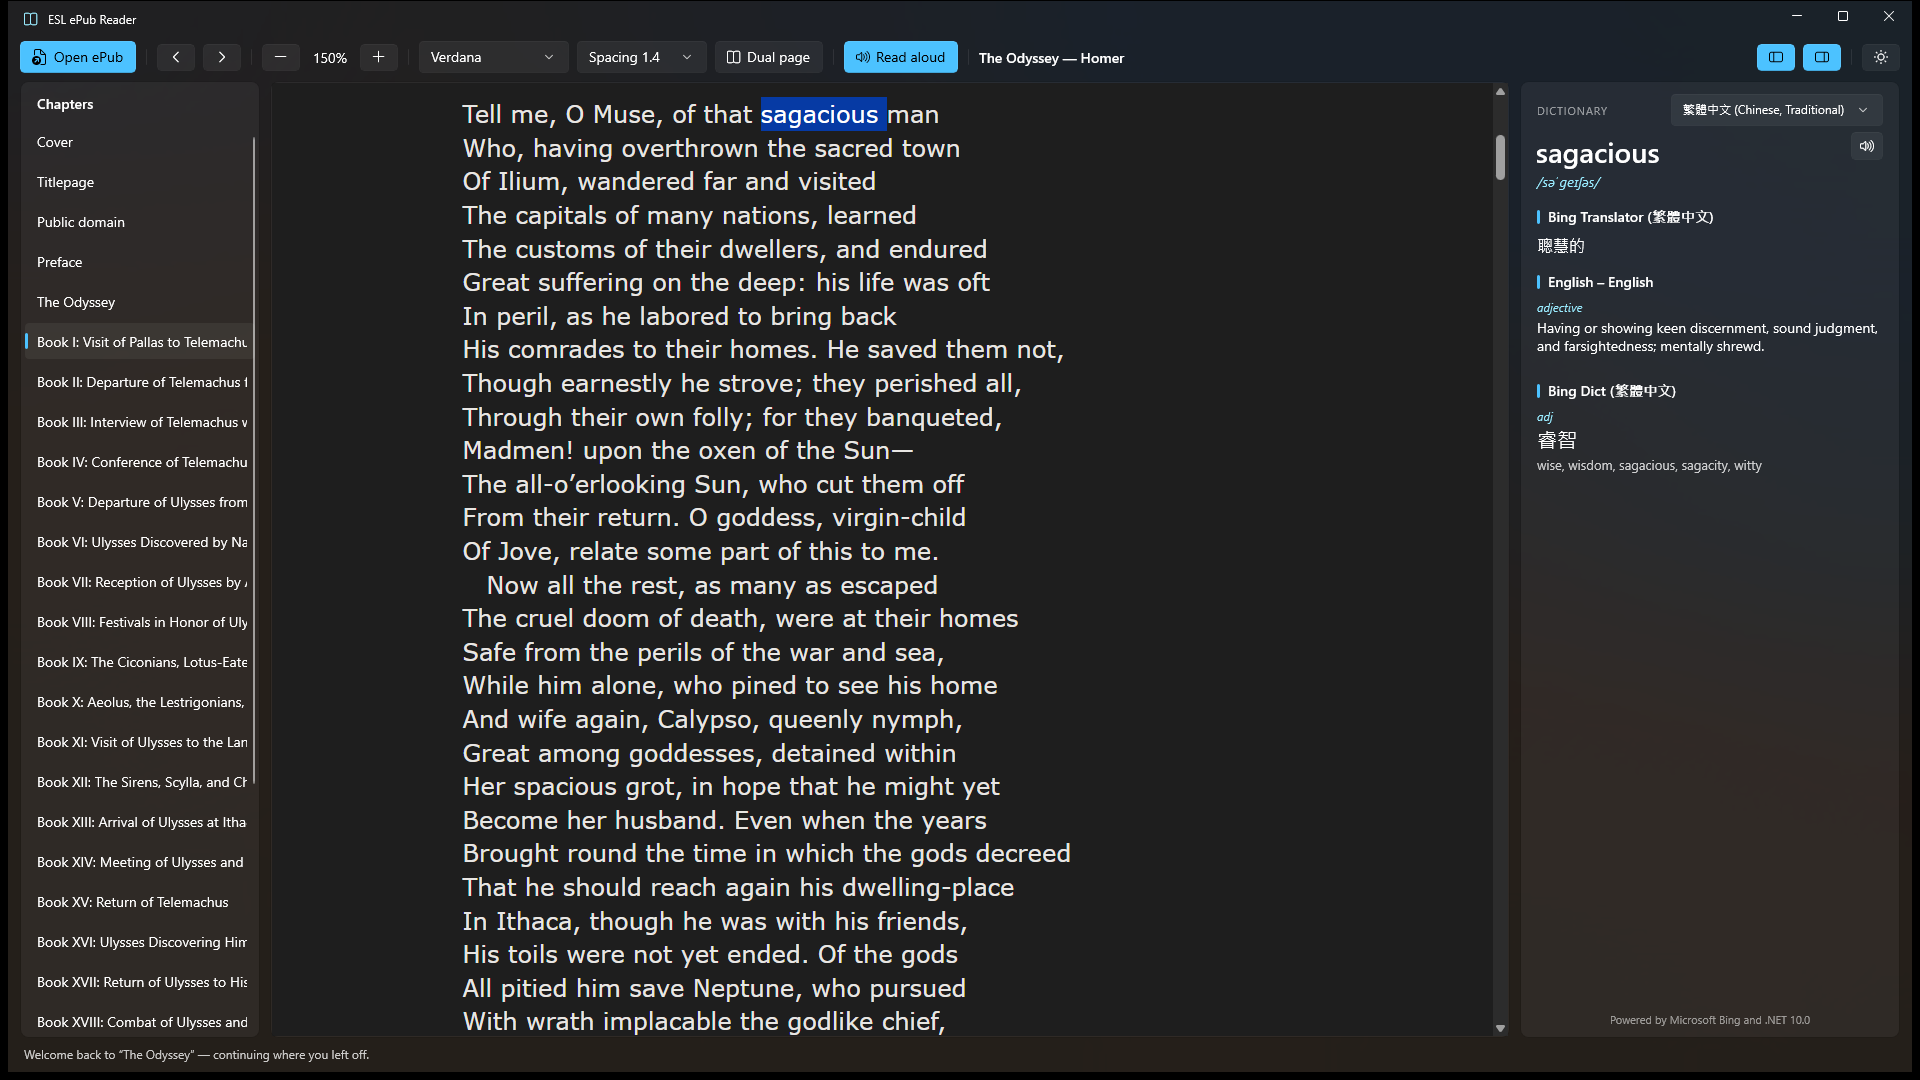
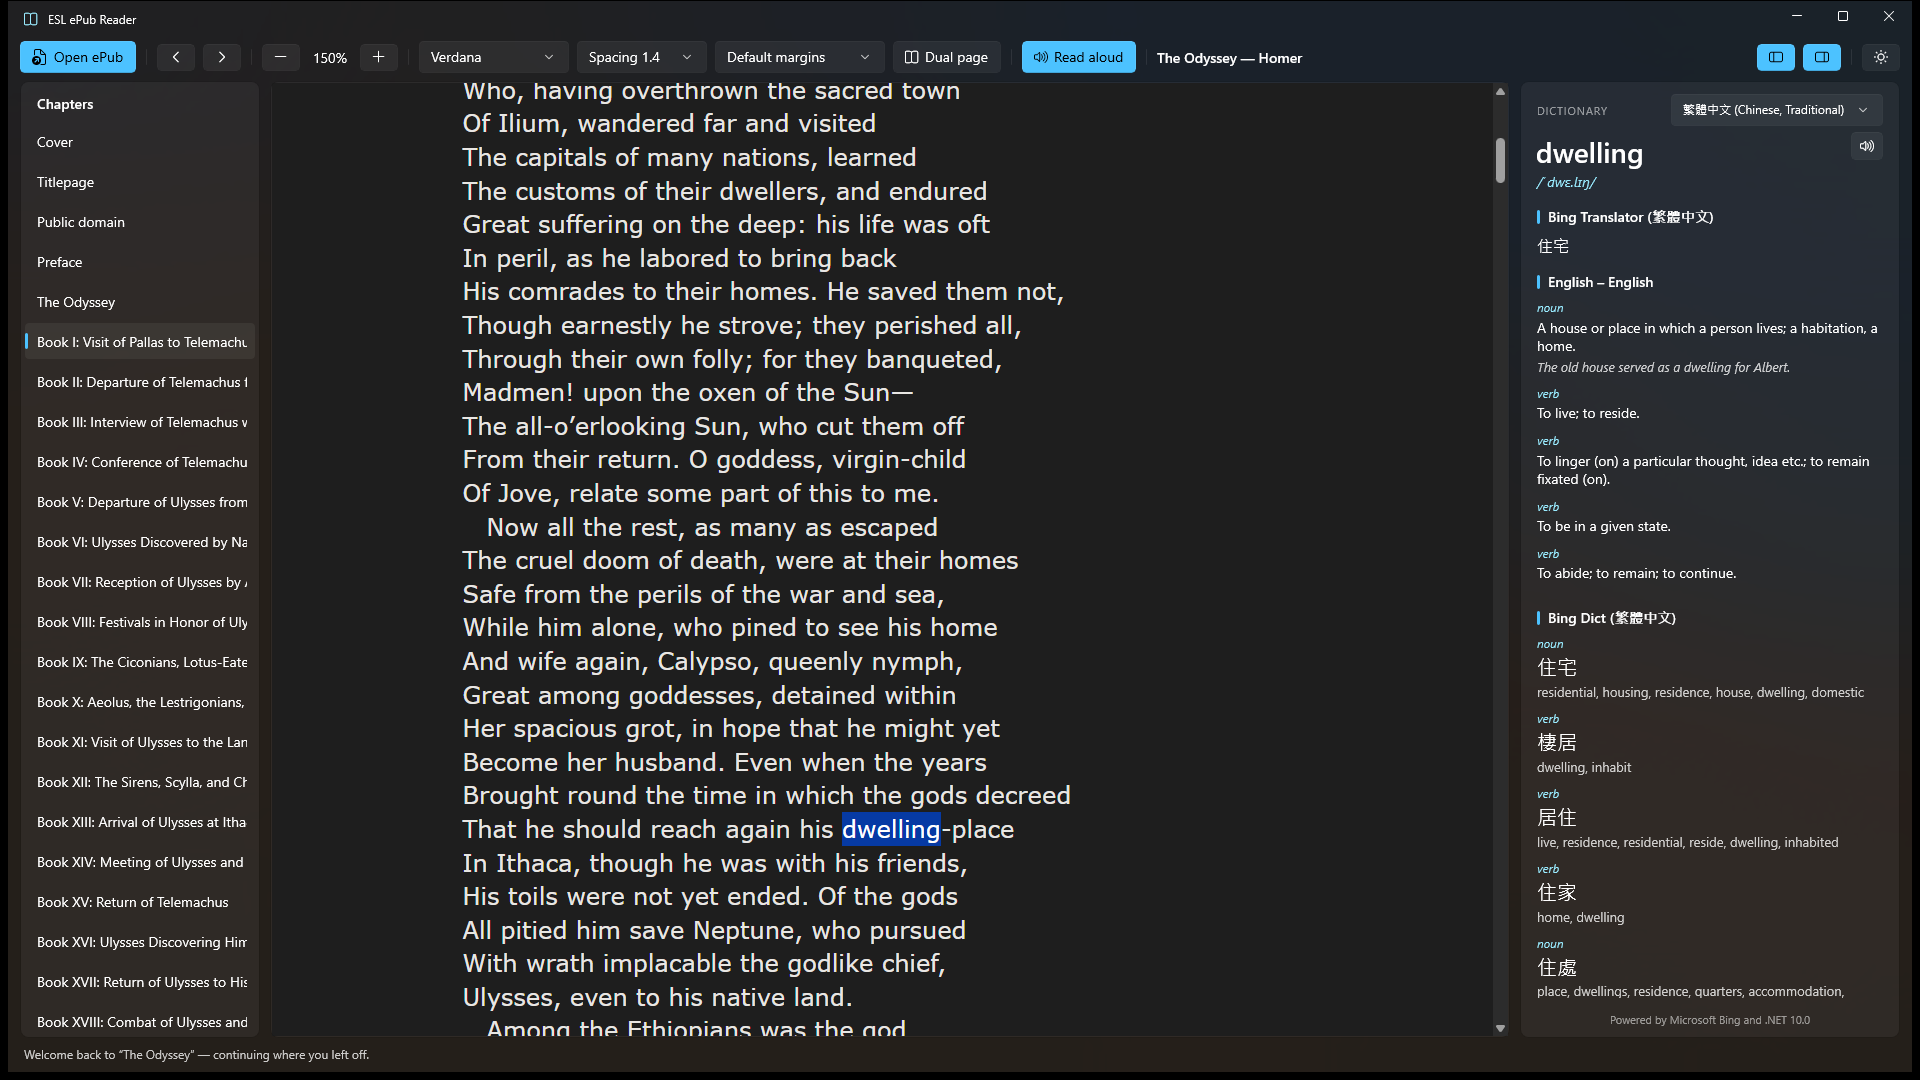
Refresh Store readiness: current-UI screenshots and a11y names
- All toolbar icon-only controls (chapter nav, zoom, dual-page, theme,
  speak-term) now carry AutomationProperties.Name — proper screen-reader
  announcements, relevant to Store accessibility review.
- The three 1920x1080 listing screenshots regenerated against the
  current UI (Margins control, Bing branding, attribution footer): word
  lookup with all three sources populated, dual-page spread, light theme.
- Store packaging pipeline re-verified on current code: both x64 and
  ARM64 .msixupload build cleanly (placeholder identity pending Partner
  Center values).

diff --git a/src/EslEpubReader/MainWindow.xaml b/src/EslEpubReader/MainWindow.xaml
@@ -86,11 +86,13 @@
 
                 <!-- Chapter navigation: enabled only while a book is open. -->
                 <Button x:Name="PrevChapterButton" Click="PrevChapterButton_Click"
-                        IsEnabled="False" ToolTipService.ToolTip="Previous chapter">
+                        IsEnabled="False" AutomationProperties.Name="Previous chapter"
+                        ToolTipService.ToolTip="Previous chapter">
                     <FontIcon Glyph="&#xE76B;" FontSize="14"/>      <!-- chevron left -->
                 </Button>
                 <Button x:Name="NextChapterButton" Click="NextChapterButton_Click"
-                        IsEnabled="False" ToolTipService.ToolTip="Next chapter">
+                        IsEnabled="False" AutomationProperties.Name="Next chapter"
+                        ToolTipService.ToolTip="Next chapter">
                     <FontIcon Glyph="&#xE76C;" FontSize="14"/>      <!-- chevron right -->
                 </Button>
 
@@ -99,12 +101,14 @@
                 <!-- Text size: important accessibility feature for ESL readers
                      who often prefer larger type while decoding new words. -->
                 <Button x:Name="ZoomOutButton" Click="ZoomOutButton_Click"
+                        AutomationProperties.Name="Smaller text"
                         ToolTipService.ToolTip="Smaller text">
                     <FontIcon Glyph="&#xE738;" FontSize="14"/>      <!-- minus -->
                 </Button>
                 <TextBlock x:Name="ZoomLabel" Text="100%" VerticalAlignment="Center"
                            MinWidth="44" TextAlignment="Center"/>
                 <Button x:Name="ZoomInButton" Click="ZoomInButton_Click"
+                        AutomationProperties.Name="Larger text"
                         ToolTipService.ToolTip="Larger text">
                     <FontIcon Glyph="&#xE710;" FontSize="14"/>      <!-- plus -->
                 </Button>
@@ -174,6 +178,7 @@
                 <ToggleButton x:Name="DualPageToggle"
                               Checked="DualPageToggle_Toggled"
                               Unchecked="DualPageToggle_Toggled"
+                              AutomationProperties.Name="Dual-page view"
                               ToolTipService.ToolTip="Dual-page view (like an open book)">
                     <StackPanel Orientation="Horizontal" Spacing="6">
                         <FontIcon Glyph="&#xE736;" FontSize="14"/>
@@ -239,6 +244,7 @@
                      (avoids composing glyph strings in C#). -->
                 <Button x:Name="ThemeToggleButton"
                         Click="ThemeToggleButton_Click"
+                        AutomationProperties.Name="Switch between day and night theme"
                         ToolTipService.ToolTip="Switch between day and night theme">
                     <Grid>
                         <FontIcon x:Name="MoonIcon" Glyph="&#xE708;" FontSize="14"/>  <!-- "QuietHours" moon -->
@@ -371,6 +377,7 @@
                                     Click="SpeakTermButton_Click"
                                     IsEnabled="False" VerticalAlignment="Top"
                                     Padding="8,6"
+                                    AutomationProperties.Name="Read this text aloud"
                                     ToolTipService.ToolTip="Read this text aloud">
                                 <FontIcon Glyph="&#xE767;" FontSize="14"/>  <!-- speaker -->
                             </Button>
